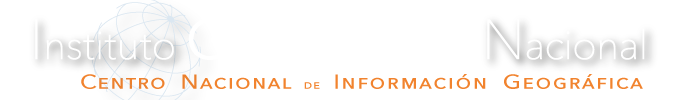
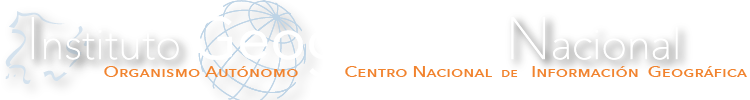
Mejoras estéticas
Se mejora la estética de la barra superior y el menu lateral.

diff --git a/src/views/Home.vue b/src/views/Home.vue
@@ -1,6 +1,5 @@
 <template>
   <v-app id="appWrapper">
-    <!-- NAVIGATION -->
     <v-navigation-drawer
       id="drawer"
       v-model="drawer"
@@ -11,81 +10,93 @@
         @change="changeObject"
         @searchResults="searchResult"
         @schemaActive="sendSchema"
-      ></Navigation>
+      />
     </v-navigation-drawer>
 
-    <!-- MAIN -->
     <v-main id="mainContent">
+      <div class="header">
         <v-btn class="buttonDrawer" dark icon small @click="drawer = !drawer">
           <v-icon v-if="drawer">mdi-chevron-left</v-icon>
           <v-icon v-else>mdi-chevron-right</v-icon>
         </v-btn>
-
-        <img class="logoImg" src="@/assets/img/logo_web_IGN_CNIG.svg">
-
-        <Main 
-          :active="activeObject"
-          :searchResults="searchTerm"
-          :schemaActive="schema"
-        ></Main>
+        <img class="imgHead" src="@/assets/img/IGN-Header-Title.png">
+      </div>
+      <Main 
+        :active="activeObject"
+        :searchResults="searchTerm"
+        :schemaActive="schema"
+      />
     </v-main>
   </v-app>
 </template>
 
 <script>
-
 import Navigation from '@/components/Navigation.vue';
-// import Buscador from '@/components/Buscador.vue';
 import Main from '@/components/Main.vue';
 
-  export default {
-    name: 'home-catalogo',
-    components: {Navigation, Main},
-
-    data(){
-      return{
-        drawer: null,
-        activeObject: { codigo: "0194l", esquema: "BTN"},    //default
-        searchTerm: undefined,
-        schema: 'BDIG',
-      }
+export default {
+  name: 'home-catalogo',
+  components: { Navigation, Main },
+  data() {
+    return {
+      drawer: null,
+      activeObject: { codigo: "0194l", esquema: "BTN" },
+      searchTerm: undefined,
+      schema: 'BDIG',
+    };
+  },
+  methods: {
+    changeObject(params) {
+      this.activeObject = params;
     },
-
-    methods:{
-      changeObject(params){
-        this.activeObject = params;
-      },
-
-      searchResult(results){
-        this.searchTerm = results;
-      },
-
-      sendSchema(schema){
-        this.schema = schema;
-      }
+    searchResult(results) {
+      this.searchTerm = results;
     },
+    sendSchema(schema) {
+      this.schema = schema;
+    }
   }
+};
 </script>
 
 <style>
-  #appWrapper {
-    font-family: 'Red Hat Display';
-    font-weight: 300; 
-  }
+#appWrapper {
+  font-family: 'Red Hat Display';
+  font-weight: 300;
+}
 
-  #drawer {
-    background-color: #343a40;
-    
-  }
+#drawer {
+  background-color: #343a40;
+}
 
-  #mainContent{
-    background-color: rgb(249, 249, 249) !important;
-    padding-left: 1rem !important;
-    padding-right: 1rem !important;   
-  }
+#mainContent{
+  background-color: rgb(249, 249, 249) !important;
+  padding-left: 0rem !important;
+  padding-right: 1rem !important;
+}
 
-  .buttonDrawer {
-    background-color: #99c5e8;
-    margin: 0.5rem 1rem;
-  }
+.header {
+  position: relative;
+  height: 3.7rem;
+
+  background-color: #343a40;
+  display: flex;
+  align-items: center;
+  justify-content: center;
+}
+
+.imgHead {
+  width: 26rem;
+  max-width: 90%;
+  height: auto;
+}
+
+.buttonDrawer {
+  position: absolute;
+  left: 0.75rem;
+  top: 50%;
+  transform: translateY(-50%);
+  background-color: #99c5e8;
+  margin: 0;
+}
 </style>

diff --git a/src/components/Navigation.vue b/src/components/Navigation.vue
@@ -1,6 +1,6 @@
 <template> 
     <div id="mainWrapper"> 
-        <img class="imgHead" src="@/assets/img/IGN-Header-Title.png">
+        <img class="logoImg" src="@/assets/img/logo_web_IGN_CNIG.svg">
 
         <h2 class="mainTitle">CATÁLOGO OBJETOS</h2>
 
@@ -270,13 +270,14 @@
 
     .listWrapper::-webkit-scrollbar { width: 0; height: 0; }
 
-    .imgHead {
-        width: 100%;
-        margin: 1.5rem 0rem;
-    }
 
     .listChild{
         margin-left: 0.5rem;
+    }
+
+    .logoImg {
+        height: 3rem;
+        margin:0.5rem 0rem 2rem 0rem;
     }
 
 </style>   

diff --git a/src/components/Main.vue b/src/components/Main.vue
@@ -483,13 +483,6 @@ export default {
         box-shadow: 2px 2px 3px 0px lightgrey;
     }
 
-    .logoImg{
-        position: absolute;
-        top: 0.5rem;
-        right: 1rem;
-        background-color:  #343a40 ;
-        height: 2rem;
-    }
 
  
 
